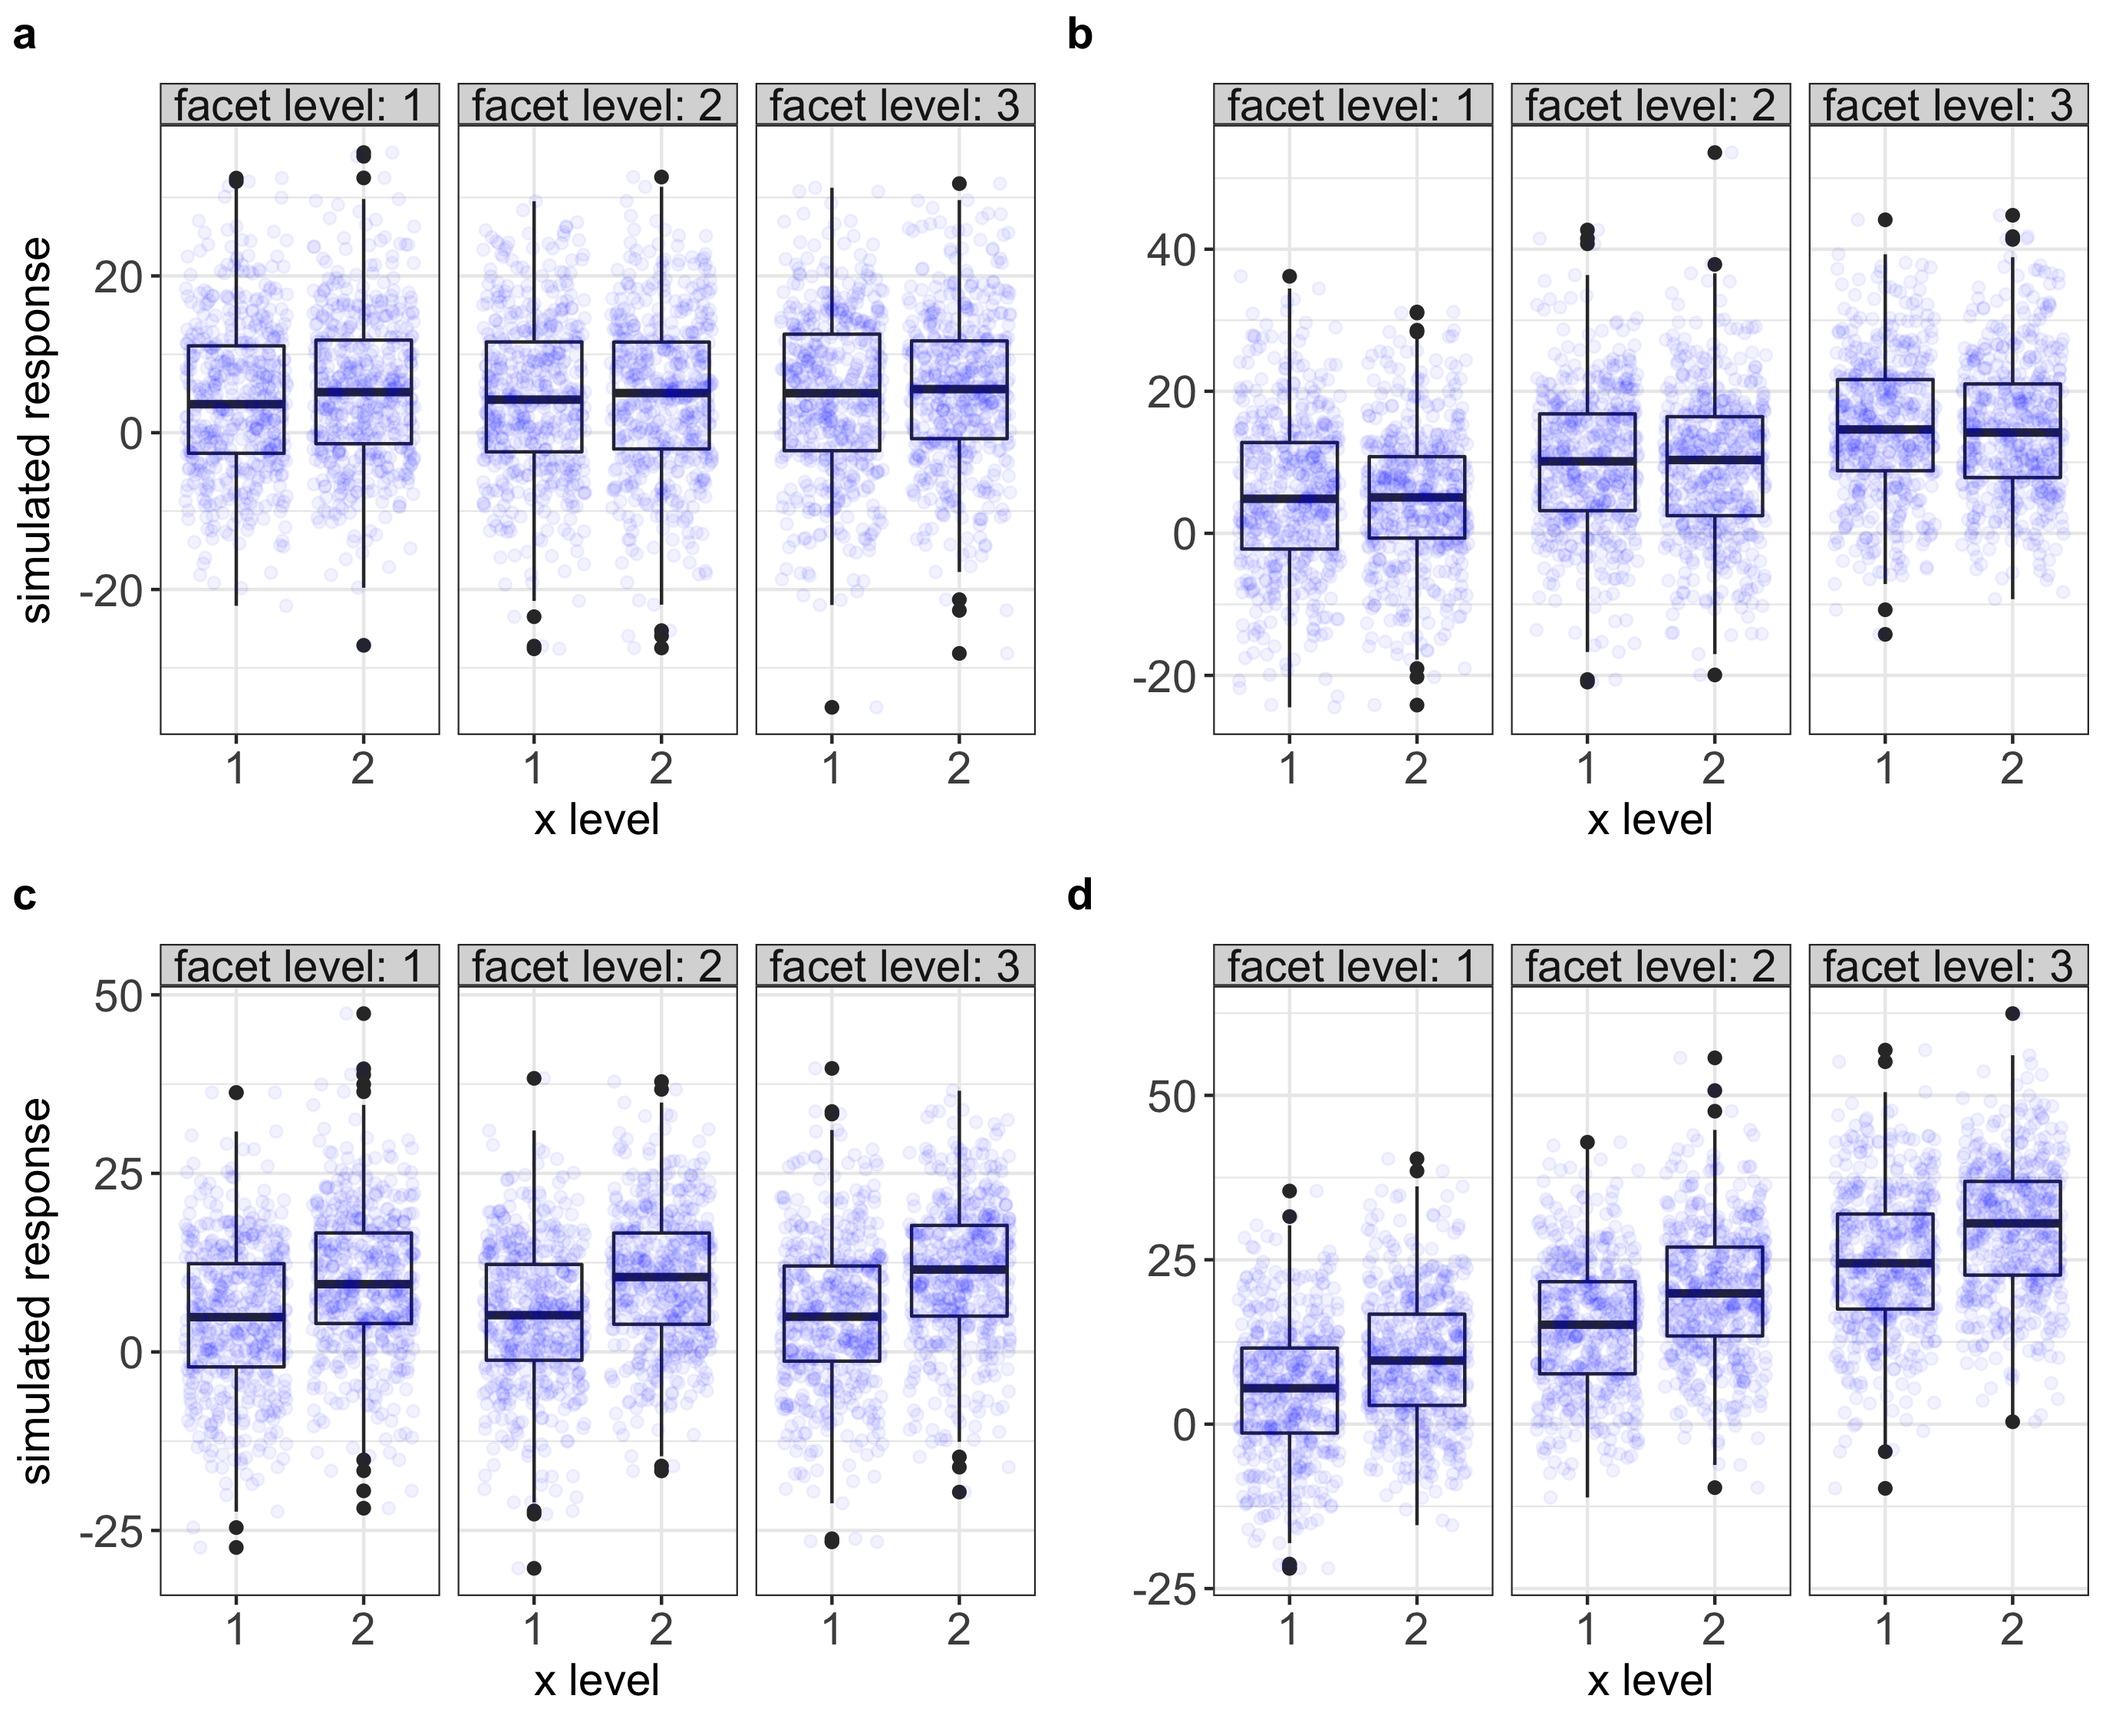
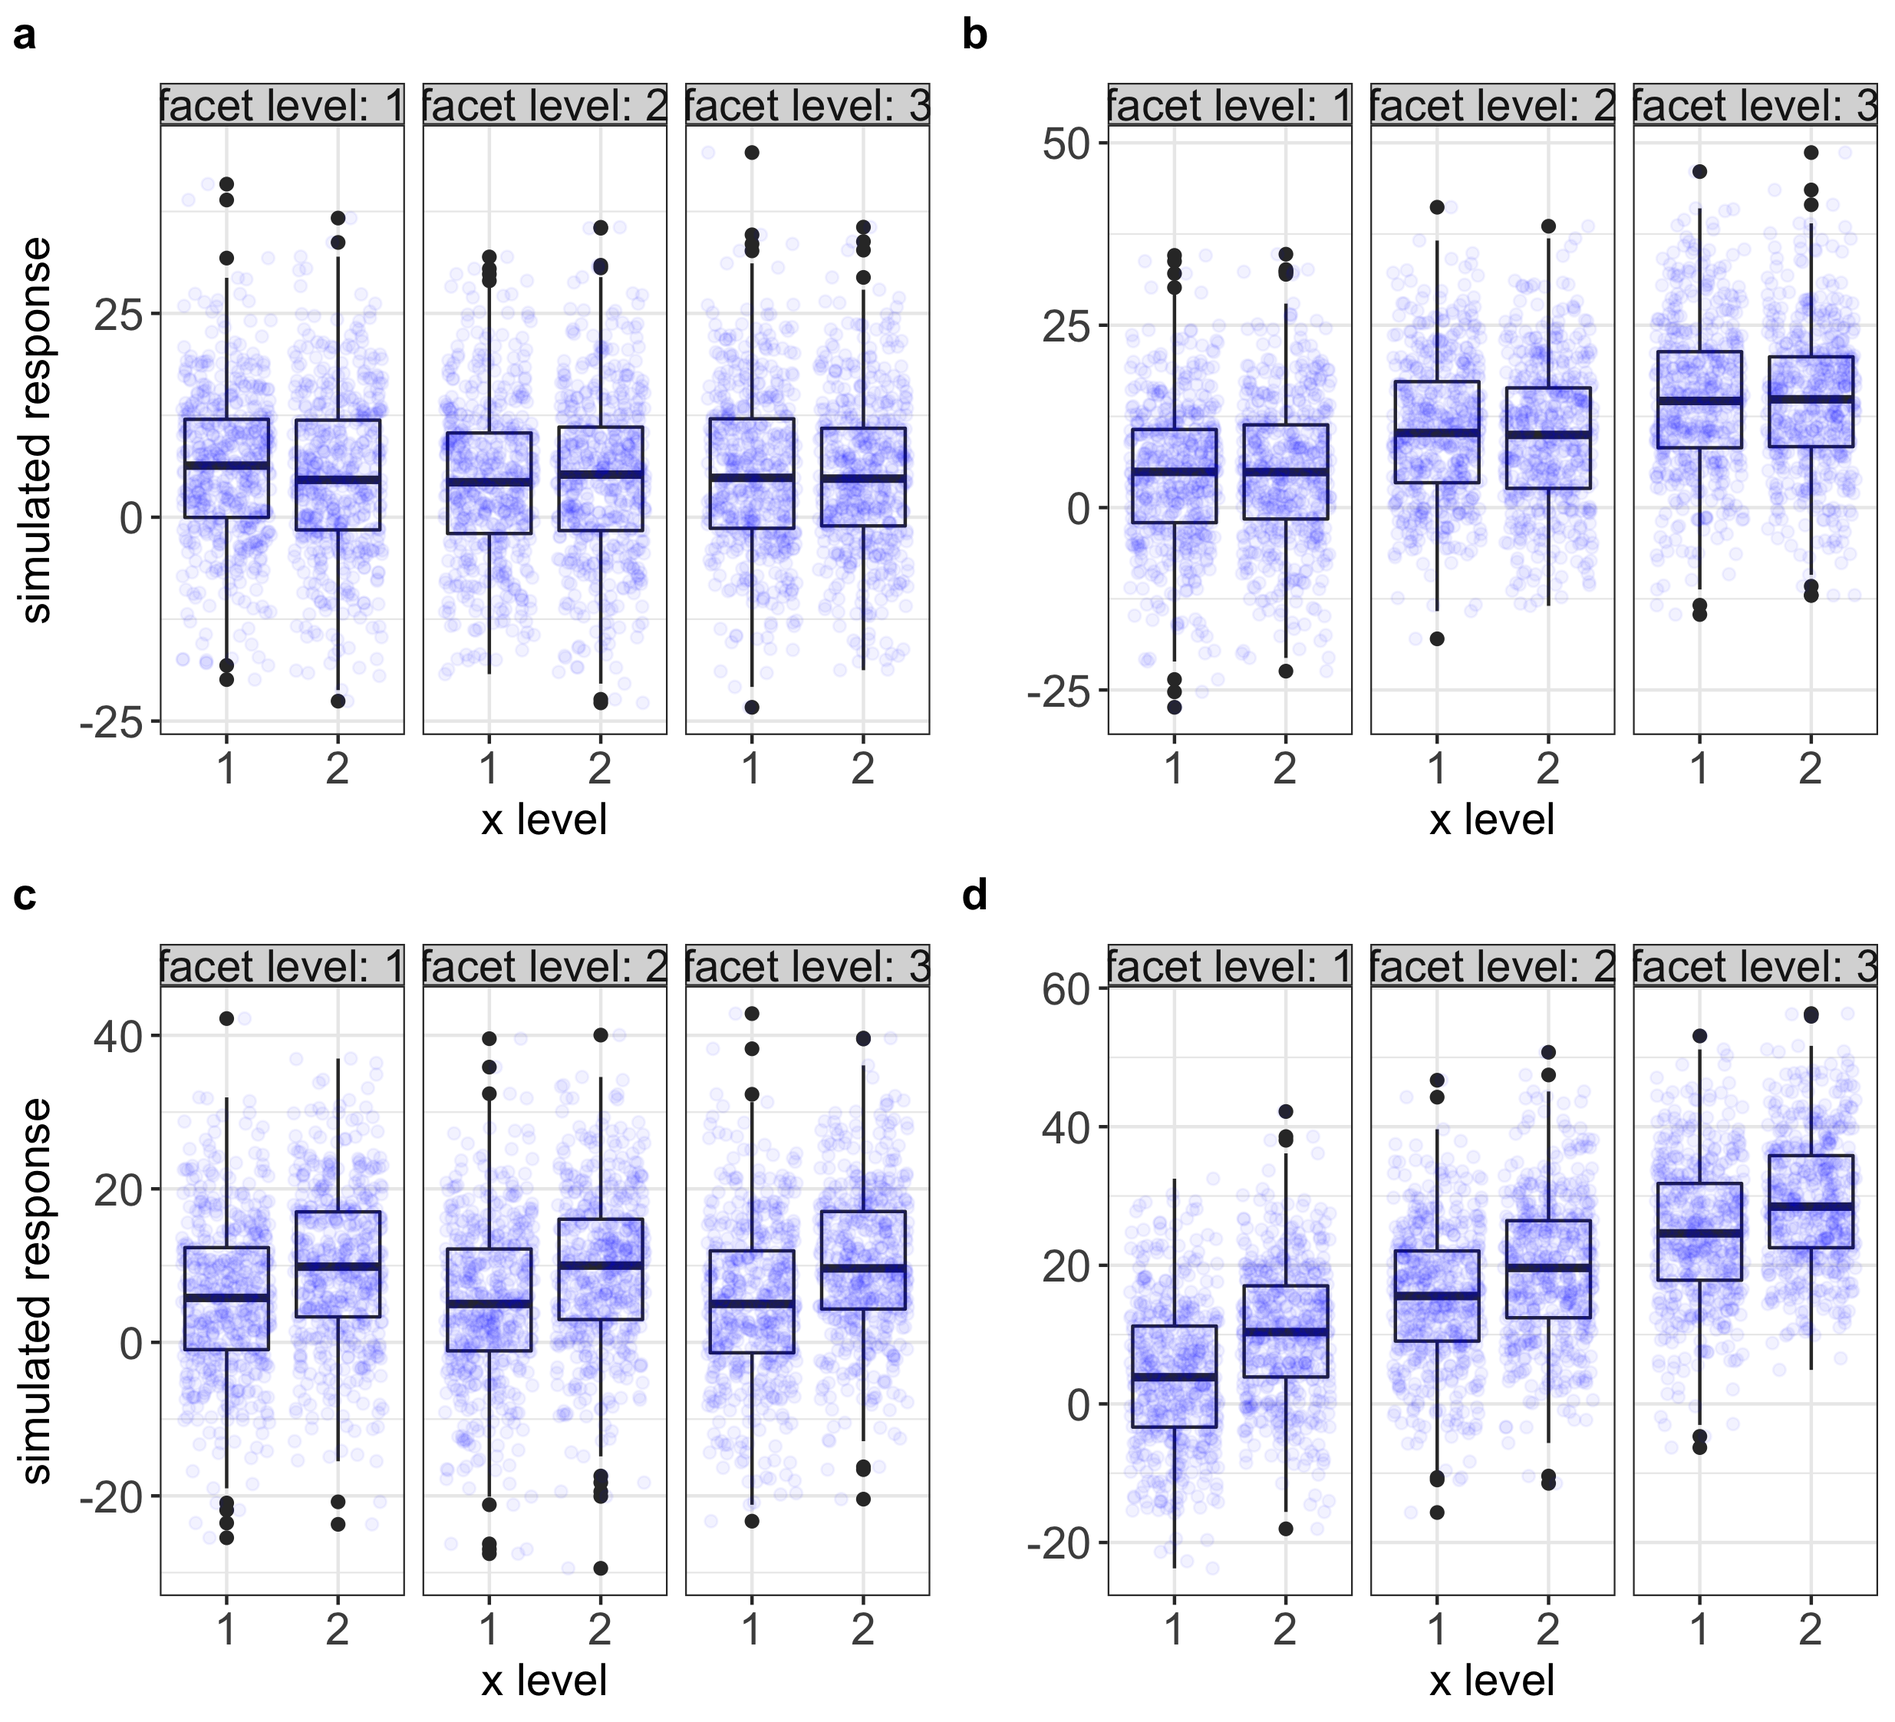
final done

diff --git a/index.html b/index.html
@@ -360,9 +360,8 @@ Bogner, K., F. Pappenberger, and H. L. Cloke. 2012. “Technical Note: The Norma
 - Response: `\(y = median(wpd)\)`
 - Linear predictor: `\(z = log(nx*nfacet)\)`
 - Distribution: Gamma
-- Link function (g): inverse
+- Link function: inverse
 - `\(E(y) = \mu\)`  
-- `\(g(\mu)=  1/\mu\)`  
 - `\(\hat \mu  = 1/(\hat a + \hat b log(z))\)`
 - Residuals: `\(y - \frac{1}{\hat a + \hat b*log(z)}\)`
 - `\(wpd_{norm} = Residuals\)`
@@ -419,8 +418,7 @@ where, `\(wpd_{perm}=\{w_{1,perm_{1}},w_{1,perm_{2}},\dots, w_{N, permM}\}\)`
 **&lt;span style="color:black"&gt; else**  _reject_  
 ]  
   
-- The threshold is defined for 99% but can be extended to define for 95% and 90% significance levels by choosing appropriate percentiles 
-
+- The threshold is defined for 99 percentile but can be extended to define for 95 and 90 percentile which will correspond to being significant at 1%, 5% and 10% levels
 ]
 ]
 ---
@@ -506,7 +504,7 @@ elec %&gt;%
 - Significant pairs differ across households
 ]
 ---
-background-image: url("figs/plot_final.png")
+background-image: url("figs/plot_final4.png")
 
 background-position: center
 background-size: contain
